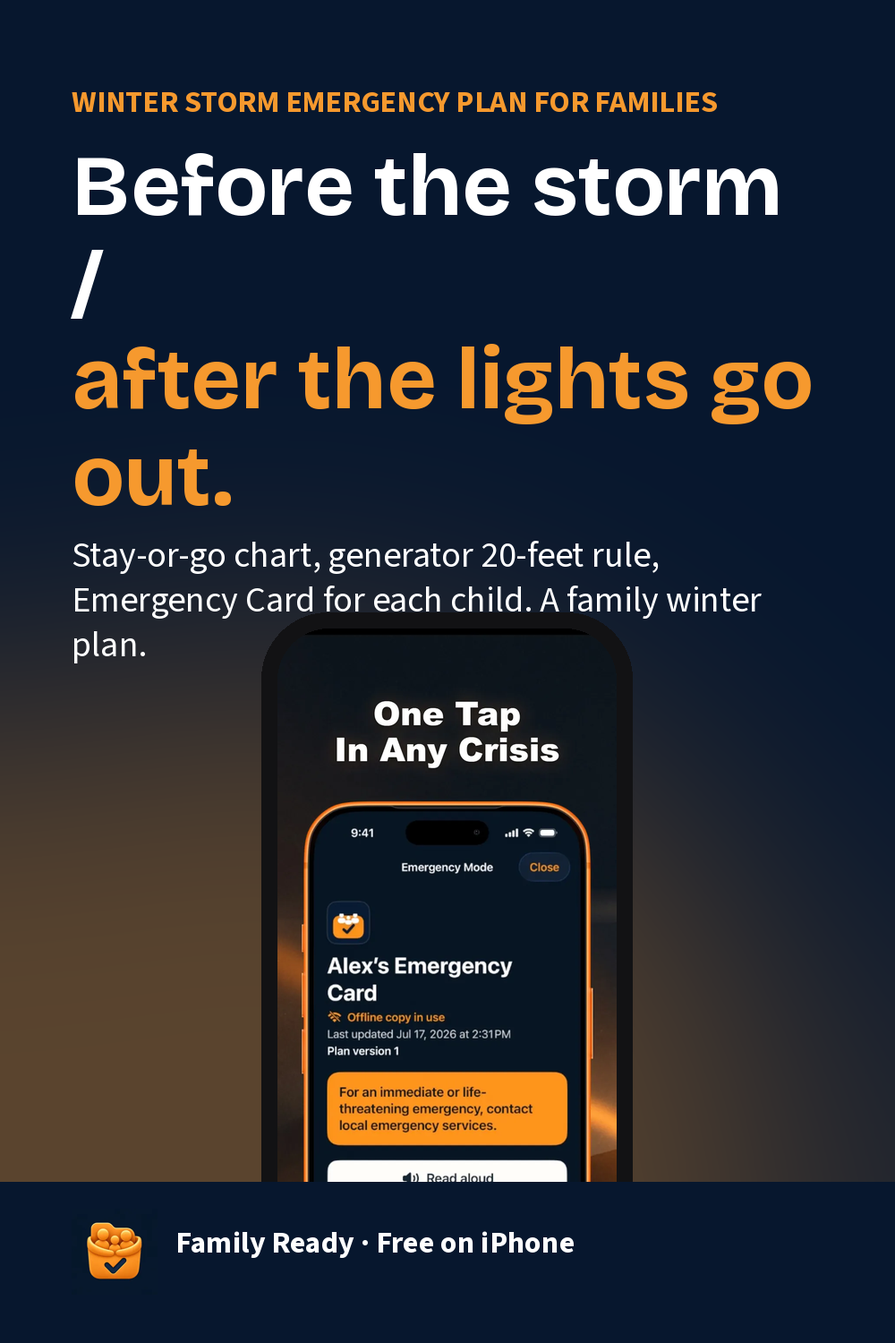
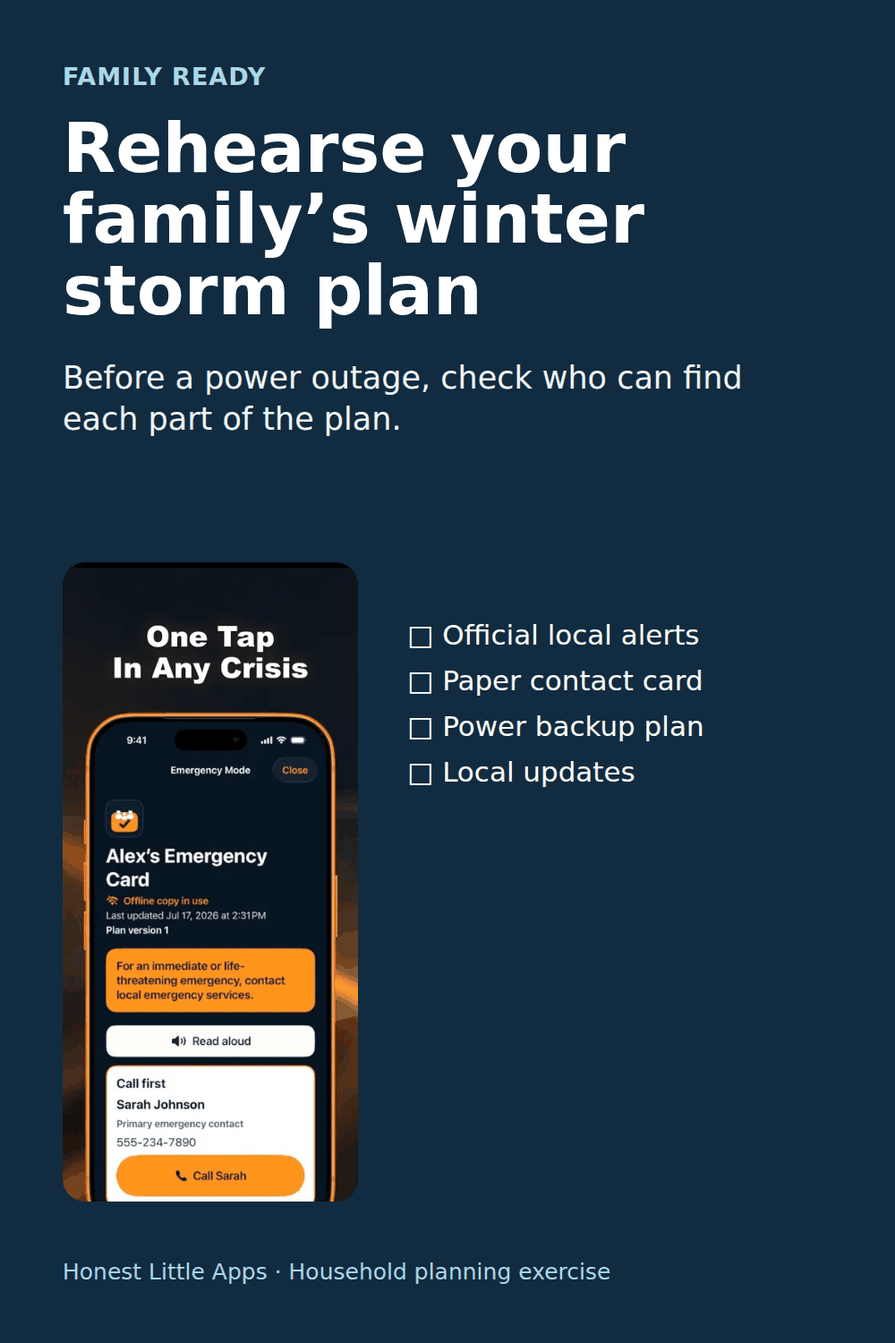
Replace winter safety verdicts with advance rehearsal; preserve repair drafts

diff --git a/src/family-ready/winter-storm-emergency-plan-for-families/index.html b/src/family-ready/winter-storm-emergency-plan-for-families/index.html
@@ -4,24 +4,24 @@
 <meta charset="utf-8">
 <meta name="viewport" content="width=device-width,initial-scale=1">
 <title>Winter Storm Emergency Plan for Families (2026-27 Season)</title>
-<meta name="description" content="Power out in a winter storm with kids at home: a stay-or-go decision chart, a drag-to-sort kit list and the free Emergency Card to fill before December.">
+<meta name="description" content="Rehearse four winter storm planning tasks with your household. Find local alerts, check a paper contact card and decide which supplies to review before an outage.">
 <link rel="canonical" href="https://udrwu9c0tjuedqy2.github.io/hla-home/family-ready/winter-storm-emergency-plan-for-families/">
 <meta name="robots" content="index,follow,max-image-preview:large">
 <meta property="og:type" content="article">
 <meta property="og:title" content="Winter Storm Emergency Plan for Families (2026-27 Season)">
-<meta property="og:description" content="Power out in a winter storm with kids at home: a stay-or-go decision chart, a drag-to-sort kit list and the free Emergency Card to fill before December.">
+<meta property="og:description" content="Rehearse four winter storm planning tasks with your household. Find local alerts, check a paper contact card and decide which supplies to review before an outage.">
 <meta property="og:url" content="https://udrwu9c0tjuedqy2.github.io/hla-home/family-ready/winter-storm-emergency-plan-for-families/">
 <meta property="og:image" content="https://udrwu9c0tjuedqy2.github.io/hla-home/family-ready/winter-storm-emergency-plan-for-families/og.png">
 <meta property="og:image:width" content="1200"><meta property="og:image:height" content="630">
 <meta property="og:site_name" content="Ready Home Family">
 <meta name="twitter:card" content="summary_large_image">
 <meta name="twitter:title" content="Winter Storm Emergency Plan for Families (2026-27 Season)">
-<meta name="twitter:description" content="Power out in a winter storm with kids at home: a stay-or-go decision chart, a drag-to-sort kit list and the free Emergency Card to fill before December.">
+<meta name="twitter:description" content="Rehearse four winter storm planning tasks with your household. Find local alerts, check a paper contact card and decide which supplies to review before an outage.">
 <meta name="twitter:image" content="https://udrwu9c0tjuedqy2.github.io/hla-home/family-ready/winter-storm-emergency-plan-for-families/og.png">
 <link rel="icon" href="/favicon.svg" type="image/svg+xml">
 <link rel="alternate" type="application/atom+xml" title="Ready Home Family" href="/feed.xml">
 <script type="application/ld+json">{"@context": "https://schema.org", "@type": "BreadcrumbList", "itemListElement": [{"@type": "ListItem", "position": 1, "name": "Ready Home Family", "item": "https://udrwu9c0tjuedqy2.github.io/hla-home/"}, {"@type": "ListItem", "position": 2, "name": "Family Ready: Emergency Plan", "item": "https://udrwu9c0tjuedqy2.github.io/hla-home/family-ready/"}, {"@type": "ListItem", "position": 3, "name": "Winter storm emergency plan for families", "item": "https://udrwu9c0tjuedqy2.github.io/hla-home/family-ready/winter-storm-emergency-plan-for-families/"}]}</script>
-<script type="application/ld+json">{"@context": "https://schema.org", "@type": "FAQPage", "mainEntity": [{"@type": "Question", "name": "When should a family leave the house in a winter storm?", "acceptedAnswer": {"@type": "Answer", "text": "When the house cannot be kept safely warm, when someone depends on a powered medical device and the backup is running out, or when officials tell you to. Roads during the storm are their own danger, so the decision is usually made early (before the worst of it) or late (after plows run), not in the middle. The chart below walks through it."}}, {"@type": "Question", "name": "Can we run the generator in the garage with the door open?", "acceptedAnswer": {"@type": "Answer", "text": "No. The CDC says a generator, charcoal grill or camp stove must be outside and at least 20 feet from any window, door or vent, never in a home, basement or garage (CDC winter safety release, February 2021). Carbon monoxide is the storm death that happens indoors."}}, {"@type": "Question", "name": "Can we heat the kitchen with the oven?", "acceptedAnswer": {"@type": "Answer", "text": "No. The same CDC guidance: never heat the house with a gas oven and never burn anything in a stove or fireplace that is not vented."}}, {"@type": "Question", "name": "What goes on the Emergency Card for a child?", "acceptedAnswer": {"@type": "Answer", "text": "Who to call first, allergies, current medications and important health information, in plain words a stranger could read. Family Ready saves it on the phone so it opens in Emergency Mode without internet once the phone is unlocked, and you can make one for each child, a parent or someone you care for, with their permission."}}, {"@type": "Question", "name": "Does the app call 911 for us?", "acceptedAnswer": {"@type": "Answer", "text": "No. Family Ready never calls or messages anyone automatically; in Emergency Mode you tap a contact to start the call yourself. In a life-threatening emergency, call your local emergency number first."}}, {"@type": "Question", "name": "What if the phone dies?", "acceptedAnswer": {"@type": "Answer", "text": "Then the app is a brick, which is why Family Ready lets you print a dated Emergency Snapshot PDF for free and why its own listing says to keep a printed copy. Tape one inside a kitchen cupboard and put one in the car."}}]}</script>
+<script type="application/ld+json">{"@context": "https://schema.org", "@type": "FAQPage", "mainEntity": [{"@type": "Question", "name": "Where do I find instructions during a storm?", "acceptedAnswer": {"@type": "Answer", "text": "Check your local emergency management authority and official weather alerts. For immediate danger, contact your local emergency number. This worksheet is for planning ahead."}}, {"@type": "Question", "name": "What if someone uses powered medical equipment?", "acceptedAnswer": {"@type": "Answer", "text": "Before an outage, ask the healthcare professional or equipment provider to help prepare a device-specific plan. Keep the instructions and contact numbers where the household can find them."}}, {"@type": "Question", "name": "Can the Emergency Card work offline?", "acceptedAnswer": {"@type": "Answer", "text": "Family Ready’s free Emergency Card opens in Emergency Mode without internet once the phone is unlocked. The free dated Emergency Snapshot PDF gives you a paper option."}}, {"@type": "Question", "name": "Does Family Ready call for help automatically?", "acceptedAnswer": {"@type": "Answer", "text": "No. Family Ready organizes the information you enter. You can tap a contact to start a call yourself."}}, {"@type": "Question", "name": "Which features require Family Ready Plus?", "acceptedAnswer": {"@type": "Answer", "text": "The Emergency Card, household plan, kit checklist and Emergency Snapshot PDF are free. Trusted-person invitations, household sync, guided reviews and additional printable packs are among the optional Plus features."}}]}</script>
 <link rel="preload" href="/assets/fonts/bricolage-grotesque-latin-700-normal.woff2" as="font" type="font/woff2" crossorigin>
 <meta name="apple-itunes-app" content="app-id=6792019825">
 <style>
@@ -60,6 +60,7 @@ details{border-top:1px solid var(--line);padding:10px 0}summary{cursor:pointer;f
 .hla-links{list-style:none;padding:0;margin:0;display:grid;gap:10px}.hla-links li{background:var(--card);border:1px solid var(--line);border-radius:12px;padding:12px 14px}.hla-links a{font-weight:600;text-decoration:none;color:var(--ink)}.hla-links span{display:block;color:var(--mute);font-size:.9rem}
 .hla-footer{margin-top:50px;padding:24px 0 40px;border-top:1px solid var(--line);color:var(--mute);font-size:.88rem}.hla-footer a{color:inherit}
 @media (prefers-reduced-motion:reduce){*{transition:none!important;animation:none!important}}
+fieldset{border:0;padding:0;margin:0 0 12px}legend{font-weight:bold;margin-bottom:10px}#rehearse label{display:flex;gap:.6rem;align-items:baseline;padding:.55rem 0}#rehearse input{flex:none;width:1.15rem;height:1.15rem}#rehearse button{cursor:pointer}#practice-result h3{margin-top:0}
 </style>
 </head>
 <body>
@@ -67,75 +68,49 @@ details{border-top:1px solid var(--line);padding:10px 0}summary{cursor:pointer;f
 <header class="top"><a href="/">Ready Home Family</a><a href="/about/">About</a></header>
 <main>
 <section class="hero">
-<p class="upd">Updated November 2026 · For the 2026–27 winter storm season · Safety facts from the CDC, linked</p>
-<h1>What to do when the power goes out<span class="l2">in a storm, with kids at home.</span></h1>
-<p class="sub">A stay-or-go decision chart, a kit list you can drag into your own order, and the one card every family should fill in before December.</p>
-<div class="badge-row"><a class="hla-badge" href="https://apps.apple.com/app/id6792019825?ct=home-winter-storm-emergency-pl&mt=8" rel="noopener" aria-label="Download on the App Store"><img src="https://toolbox.marketingtools.apple.com/api/v2/badges/download-on-the-app-store/black/en-us?size=250x83&releaseDate=1276560000" alt="Download on the App Store" width="150" height="50" loading="eager" decoding="async"></a><small>Family Ready · Free Emergency Card on iPhone</small></div>
-<p class="swipe">Swipe the table sideways →</p>
-<div class="tblwrap">
-<table>
-<thead><tr><th>Decision</th><th>Stay home</th><th>Go (relative, friend, warming centre)</th><th>Call emergency services</th></tr></thead>
-<tbody>
-<tr><td>House temperature</td><td>Holding above about 60°F / 16°C with layers and one safe heat source</td><td>Falling steadily and no safe heat source</td><td>Someone is confused, very drowsy or has stopped shivering (signs of hypothermia per CDC)</td></tr>
-<tr><td>Medical devices</td><td>None, or battery backup covers the outage</td><td>Backup will not last; a plugged-in relative can host</td><td>Device failing now and no backup</td></tr>
-<tr><td>Roads</td><td>Unplowed, white-out, or ice: stay unless the house is unsafe</td><td>Cleared and daylight, short trip, car kit packed</td><td>Never drive to the hospital in a white-out if you can call instead</td></tr>
-<tr><td>Carbon monoxide</td><td>Generator outside, 20+ feet from windows and doors; no gas oven for heat</td><td>Any CO alarm or dizziness, headache, nausea: get everyone outside, then go</td><td>Symptoms plus anyone unconscious</td></tr>
-</tbody>
-</table>
-</div>
-<p class="upd">Generator distance, oven and vehicle rules: <a href="https://archive.cdc.gov/www_cdc_gov/media/releases/2021/p0217-winter-safety-tips.html" rel="noopener">CDC winter safety release, 17 February 2021</a>. Hypothermia signs and "stay indoors in extreme cold": <a href="https://www.cdc.gov/winter-weather/prevention/index.html" rel="noopener">CDC, Preventing Hypothermia, reviewed August 2026</a>. This is general information, not medical advice.</p>
+<p class="upd">Household planning exercise</p>
+<h1>Build your family’s winter storm plan<span class="l2">before the power goes out.</span></h1>
+<p class="sub">Practice finding local alerts, a paper contact card and the right people to ask about backup power. Start with one task, then compare notes.</p>
+<p>If a storm is happening now, follow your local emergency authorities’ instructions. For immediate danger, contact your local emergency number.</p>
 </section>
-
-<h2 id="faq">Questions parents ask the night the lights go out</h2>
-<details><summary>When should a family leave the house in a winter storm?</summary><p>When the house cannot be kept safely warm, when someone depends on a powered medical device and the backup is running out, or when officials tell you to. Roads during the storm are their own danger, so the decision is usually made early (before the worst of it) or late (after plows run), not in the middle. The chart below walks through it.</p></details><details><summary>Can we run the generator in the garage with the door open?</summary><p>No. The CDC says a generator, charcoal grill or camp stove must be outside and at least 20 feet from any window, door or vent, never in a home, basement or garage (<a href="https://archive.cdc.gov/www_cdc_gov/media/releases/2021/p0217-winter-safety-tips.html" rel="noopener">CDC winter safety release, February 2021</a>). Carbon monoxide is the storm death that happens indoors.</p></details><details><summary>Can we heat the kitchen with the oven?</summary><p>No. The same CDC guidance: never heat the house with a gas oven and never burn anything in a stove or fireplace that is not vented.</p></details><details><summary>What goes on the Emergency Card for a child?</summary><p>Who to call first, allergies, current medications and important health information, in plain words a stranger could read. Family Ready saves it on the phone so it opens in Emergency Mode without internet once the phone is unlocked, and you can make one for each child, a parent or someone you care for, with their permission.</p></details><details><summary>Does the app call 911 for us?</summary><p>No. Family Ready never calls or messages anyone automatically; in Emergency Mode you tap a contact to start the call yourself. In a life-threatening emergency, call your local emergency number first.</p></details><details><summary>What if the phone dies?</summary><p>Then the app is a brick, which is why Family Ready lets you print a dated Emergency Snapshot PDF for free and why its own listing says to keep a printed copy. Tape one inside a kitchen cupboard and put one in the car.</p></details>
-
-<div class="flow" id="flow">
-<h2>Stay or go? Tap through</h2>
-<p>Four yes/no questions. The answer is a starting point for your judgement, not a replacement for it.</p>
-<div class="node" id="node"></div>
-<div class="yn" id="yn"></div>
-<div class="trail" id="trail"></div>
-<div class="rec" id="rec" hidden></div>
-<button class="reset" id="reset" type="button" hidden>Start again</button>
-<a class="cta" href="https://apps.apple.com/app/id6792019825?ct=home-winter-storm-emergency-pl&mt=8" rel="noopener">Start on your iPhone</a>
-</div>
+<section class="flow" id="flow"><h2>Rehearse four tasks</h2><p>Check each task after someone in your household can demonstrate it. The result lists what to practice next. No personal details are entered.</p>
+<form id="rehearse"><fieldset><legend>Which tasks have you tried?</legend>
+<label><input type="checkbox" value="alerts"> Find the official weather alerts and emergency instructions for your area.</label>
+<label><input type="checkbox" value="contacts"> Locate a paper contact card and agree who will keep it current.</label>
+<label><input type="checkbox" value="power"> Review household power needs. If someone uses powered medical equipment, locate their device-specific plan or identify whom to ask for one.</label>
+<label><input type="checkbox" value="updates"> Find the official sources for road conditions and local warming-centre updates.</label>
+</fieldset><button class="cta" type="submit">Show my next practice tasks</button></form>
+<div id="practice-result" class="rec" tabindex="-1" hidden><h3 id="result-title"></h3><ul id="next-tasks"></ul></div>
+<noscript>On paper, write down the unchecked tasks. Pick one person to follow up on each.</noscript></section>
 
 <h2 id="kit">Drag the kit into your family's order</h2>
 <p>Six things from the Ready.gov-style kit checklist that Family Ready ships with. Drag (or use the arrow keys) to put them in the order you would grab them. There is no single right order; the point is that you have thought about it before the lights go out.</p>
 <ol class="sort" id="sort"><li draggable="true" tabindex="0"><span class="grip" aria-hidden="true">⋮⋮</span>Water: one gallon per person per day, three days</li><li draggable="true" tabindex="0"><span class="grip" aria-hidden="true">⋮⋮</span>Flashlights and spare batteries (not candles)</li><li draggable="true" tabindex="0"><span class="grip" aria-hidden="true">⋮⋮</span>Battery or crank radio for weather alerts</li><li draggable="true" tabindex="0"><span class="grip" aria-hidden="true">⋮⋮</span>Medications and the printed Emergency Card</li><li draggable="true" tabindex="0"><span class="grip" aria-hidden="true">⋮⋮</span>Blankets, hats, mittens, dry socks for each child</li><li draggable="true" tabindex="0"><span class="grip" aria-hidden="true">⋮⋮</span>Phone power bank, charged before the storm</li></ol>
 <p class="sortnote" id="sortnote">Your order is kept in this browser only.</p>
 
-<h2 id="story">A Thursday in January</h2>
-<div class="story">
-<p>7:10 pm, ice storm, the power cuts mid-dinner. The kids think it is fun for about four minutes. The house is 68°F and will lose roughly a degree an hour; the forecast says restoration by morning, maybe.</p>
-<p>The chart says stay: no medical devices, roads are glass, the gas fireplace is vented. The kit is in the hall cupboard. Emergency Mode on the phone shows the Emergency Card for each child, with the paediatrician and grandma's number, and the printed snapshot is taped inside the cupboard door in case the phone goes. Everyone sleeps in the living room under three blankets each. The lights come back at 5 am. Nobody had to decide anything in the dark.</p>
-</div>
-
-<h2 id="screens">What the free parts look like</h2>
+<h2>Practice on an ordinary evening</h2><div class="story"><p>In this example, one parent can find the town’s alert page. Another can find the printed card but spots an outdated phone number. Their next task is concrete: update the number, print a fresh copy and tell the household where it is kept.</p></div>
+<h2>Sources to keep with the plan</h2><ul>
+<li><a href="https://www.weather.gov/safety/winter-during">US National Weather Service winter storm guidance</a></li>
+<li><a href="https://www.canada.ca/en/services/policing/emergencies/preparedness/get-prepared/hazards-emergencies/power-outages.html">Public Safety Canada household power outage preparation</a></li>
+<li><a href="https://tc.canada.ca/en/road-transportation/stay-safe-when-driving/winter-driving/planning-your-trip">Transport Canada winter travel and road-condition resources</a></li>
+<li><a href="https://www.fda.gov/media/80782/download">FDA power outage planning booklet for users of powered medical devices</a>. Complete the device-specific plan with a healthcare professional.</li></ul>
+<h2>What the free parts look like</h2>
 <div class="shots">
 <figure><img class="" src="/assets/family-ready/screen-1-390.webp" srcset="/assets/family-ready/screen-1-390.webp 390w, /assets/family-ready/screen-1-780.webp 780w" sizes="(max-width:480px) 70vw, 300px" width="390" height="844" alt="Family Ready home screen showing a saved Emergency Card for Alex" loading="lazy" decoding="async"><figcaption>A saved Emergency Card, ready offline.</figcaption></figure>
 <figure><img class="" src="/assets/family-ready/screen-3-390.webp" srcset="/assets/family-ready/screen-3-390.webp 390w, /assets/family-ready/screen-3-780.webp 780w" sizes="(max-width:480px) 70vw, 300px" width="390" height="844" alt="Family Ready Emergency Mode with large text, call-first contact and read-aloud" loading="lazy" decoding="async"><figcaption>Emergency Mode: one tap, large text, call the first contact yourself.</figcaption></figure>
 <figure><img class="" src="/assets/family-ready/screen-4-390.webp" srcset="/assets/family-ready/screen-4-390.webp 390w, /assets/family-ready/screen-4-780.webp 780w" sizes="(max-width:480px) 70vw, 300px" width="390" height="844" alt="Family Ready plan sections: Today, If I Am Unavailable, Later" loading="lazy" decoding="async"><figcaption>The household plan, section by section.</figcaption></figure>
 </div>
 
-<h2 id="how">Three things to do this week</h2>
-<ol class="steps">
-<li><strong>Fill one Emergency Card per child.</strong> Who to call first, allergies, medications, health notes. It is free, saved on the phone, and opens offline in Emergency Mode once the phone is unlocked.</li>
-<li><strong>Print the Emergency Snapshot.</strong> Free, dated PDF. Cupboard door and glovebox. The app's listing says it itself: no app helps if the phone is lost or out of battery.</li>
-<li><strong>Edit the kit checklist and set a review date.</strong> The checklist is based on Ready.gov and Get Prepared (Canada) guidance with optional sections for children, older adults, pets and rural homes. Choose a 3, 6 or 12-month review so it does not go stale.</li>
-</ol>
-
-<h2 id="not-for">Who should pick something else</h2>
-<ul>
-<li>If you want an app that alerts you to storms or calls for help, this is not it; Family Ready organizes information you enter and never contacts emergency services. Use your local alerts app alongside it.</li>
-<li>If you want remote family sync and printable packs for a babysitter or carer, those are part of Family Ready Plus, a subscription. The free tier is the card, Emergency Mode, the household plan, the kit checklist, encrypted backup and the snapshot PDF.</li>
-<li>If nobody in the household will keep a phone charged, make the paper version the plan and the app the backup.</li>
-</ul>
-
+<h2 id="faq">Questions about keeping a household plan</h2>
+<details><summary>Where do I find instructions during a storm?</summary><p>Check your local emergency management authority and official weather alerts. For immediate danger, contact your local emergency number. This worksheet is for planning ahead.</p></details>
+<details><summary>What if someone uses powered medical equipment?</summary><p>Before an outage, ask the healthcare professional or equipment provider to help prepare a device-specific plan. Keep the instructions and contact numbers where the household can find them.</p></details>
+<details><summary>Can the Emergency Card work offline?</summary><p>Family Ready’s free Emergency Card opens in Emergency Mode without internet once the phone is unlocked. The free dated Emergency Snapshot PDF gives you a paper option.</p></details>
+<details><summary>Does Family Ready call for help automatically?</summary><p>No. Family Ready organizes the information you enter. You can tap a contact to start a call yourself.</p></details>
+<details><summary>Which features require Family Ready Plus?</summary><p>The Emergency Card, household plan, kit checklist and Emergency Snapshot PDF are free. Trusted-person invitations, household sync, guided reviews and additional printable packs are among the optional Plus features.</p></details>
 <section class="closing">
 <h2>Fill the card before the first storm</h2>
 <p>Free Emergency Card, Emergency Mode and kit checklist. No account to start.</p>
-<a class="hla-badge" href="https://apps.apple.com/app/id6792019825?ct=home-winter-storm-emergency-pl&mt=8" rel="noopener" aria-label="Download on the App Store"><img src="https://toolbox.marketingtools.apple.com/api/v2/badges/download-on-the-app-store/black/en-us?size=250x83&releaseDate=1276560000" alt="Download on the App Store" width="150" height="50" loading="eager" decoding="async"></a>
+<a class="hla-badge" href="https://apps.apple.com/us/app/family-ready-emergency-plan/id6792019825" rel="noopener" aria-label="Download on the App Store"><img src="https://toolbox.marketingtools.apple.com/api/v2/badges/download-on-the-app-store/black/en-us?size=250x83&releaseDate=1276560000" alt="Download on the App Store" width="150" height="50" loading="eager" decoding="async"></a>
 <p class="upd">Not an emergency-response service · Keep a printed copy too</p>
 </section>
 
@@ -146,19 +121,18 @@ details{border-top:1px solid var(--line);padding:10px 0}summary{cursor:pointer;f
 </div>
 <script>
 (function(){
-var T={q0:['Does anyone in the house depend on a powered medical device (oxygen, CPAP you cannot skip, powered feeding)?','q1','q2'],
-q1:['Will the backup battery or supply outlast the expected outage?','q2','GO_MED'],
-q2:['Do you have one safe heat source: a vented fireplace, or a generator outside at least 20 feet from windows and doors?','q3','q4'],
-q3:['Are the roads currently unsafe (unplowed, ice, white-out)?','STAY','STAY_OPT'],
-q4:['Is the house still above about 60°F / 16°C and are roads unsafe right now?','STAY_WATCH','GO']};
-var R={STAY:['Stay home','Safe heat, kids layered, kit out, phone on low power. Sleep in one room. Re-check the chart every few hours.'],
-STAY_OPT:['Stay, with a go-bag by the door','Heat is safe and roads are passable: staying is simpler, but pack the car kit now so a later decision takes two minutes.'],
-STAY_WATCH:['Stay for now, and set a tripwire','No safe heat source means the house will keep cooling. Decide the temperature or the hour at which you leave, before you are too cold to decide well. Never use a gas oven or an unvented stove to heat.'],
-GO:['Go while you can','No safe heat and the house is cooling or the roads are clear: a relative, friend or warming centre beats a cold night. Take the printed Emergency Card and medications.'],
-GO_MED:['Go now, and call ahead','A medical device without backup is the one case where waiting is the risk. Call the person you are going to, and if the device is failing now, call your local emergency number.']};
-var node=document.getElementById('node'),yn=document.getElementById('yn'),trail=document.getElementById('trail'),rec=document.getElementById('rec'),reset=document.getElementById('reset'),path=[];
-function show(k){if(R[k]){node.textContent='';yn.innerHTML='';rec.innerHTML='<b>'+R[k][0]+'</b>'+R[k][1];rec.hidden=false;reset.hidden=false;return;}var n=T[k];node.textContent=n[0];yn.innerHTML='';[['Yes',n[1]],['No',n[2]]].forEach(function(a){var b=document.createElement('button');b.type='button';b.textContent=a[0];b.addEventListener('click',function(){path.push(a[0]);trail.textContent='Answers so far: '+path.join(' → ');show(a[1]);});yn.appendChild(b);});}
-reset.addEventListener('click',function(){path=[];trail.textContent='';rec.hidden=true;reset.hidden=true;show('q0');});show('q0');
+const form=document.getElementById('rehearse');
+const nextTasks={alerts:'Bookmark your official local weather and emergency alert sources.',contacts:'Review the contact card together and agree where a printed copy will live.',power:'List the household’s power-related questions. Arrange a device-specific review with the provider if applicable.',updates:'Bookmark your area’s official road conditions and community information channels.'};
+function showPractice(){
+ const pending=[...form.querySelectorAll('input:not(:checked)')],list=document.getElementById('next-tasks');
+ list.replaceChildren();
+ for(const box of pending){const item=document.createElement('li');item.textContent=nextTasks[box.value];list.append(item);}
+ document.getElementById('result-title').textContent=pending.length ? (4-pending.length)+' of 4 practiced. Next tasks' : 'All four tasks practiced. Agree on your next review date.';
+ const result=document.getElementById('practice-result');result.hidden=false;result.focus();
+}
+form.addEventListener('submit',function(e){e.preventDefault();showPractice();});
+form.addEventListener('input',function(){document.getElementById('practice-result').hidden=true;});
+
 var list=document.getElementById('sort'),key='hla-family-ready-kit-order';
 try{var order=JSON.parse(localStorage.getItem(key)||'null');if(order){var items=[].slice.call(list.children);order.forEach(function(t){var it=items.find(function(x){return x.textContent.trim()===t});if(it)list.appendChild(it);});}}catch(e){}
 function save(){try{localStorage.setItem(key,JSON.stringify([].map.call(list.children,function(x){return x.textContent.trim()})));}catch(e){}}

diff --git a/src/roommend/repair-request-builder/index.html b/src/roommend/repair-request-builder/index.html
@@ -2,7 +2,7 @@
 :root{--paper:#f5f3ec;--ink:#183e36;--green:#226550;--lime:#dbe9aa;--line:#c9d1c6}*{box-sizing:border-box}body{margin:0;color:var(--ink);background:var(--paper);font:17px/1.65 system-ui,sans-serif}header,main,footer{max-width:1120px;margin:auto;padding:24px}header{display:flex;justify-content:space-between;gap:24px;border-bottom:1px solid var(--line);font-size:12px;letter-spacing:.13em}a{color:inherit}h1,h2{font-family:Georgia,serif;font-weight:400;letter-spacing:-.035em;line-height:1.06}h1{font-size:clamp(52px,7.6vw,88px);margin:22px 0}h2{font-size:clamp(34px,4.7vw,52px)}.hero{display:grid;grid-template-columns:1.2fr 1fr;gap:50px;align-items:center;padding:55px 0}.eyebrow{font-size:12px;font-weight:800;letter-spacing:.15em}.ticket{background:#fff;padding:30px;border:1px solid var(--line);border-top:12px solid var(--green);box-shadow:12px 12px 0 #dce3d5;transform:rotate(2deg)}.ticket strong{display:block;font:38px/1.15 Georgia,serif}.ticket-row{padding:17px 0;border-bottom:1px dashed var(--line)}.ticket-row span{display:block;font-size:11px;letter-spacing:.14em;font-weight:700}.button,button{display:inline-block;background:var(--green);color:white;border:0;border-radius:6px;padding:14px 20px;min-height:48px;font:700 15px/1.4 system-ui,sans-serif;text-decoration:none;cursor:pointer}.secondary{background:#e4e9df;color:var(--ink)}.small{font-size:14px}.tool{padding:clamp(22px,4vw,44px);background:white;border:1px solid var(--line);border-radius:12px;margin:25px 0 60px}.form-grid{display:grid;grid-template-columns:1fr 1fr;gap:24px}.wide{grid-column:1/-1}label{display:block;font-size:15px;font-weight:700}input,textarea,select{width:100%;font:inherit;line-height:1.5;color:var(--ink);border:1px solid #758c7f;border-radius:5px;padding:12px;background:#fff;margin-top:7px}textarea{min-height:110px;resize:vertical}.hint{font-size:13px;color:#52685f;margin:5px 0 0}.actions{display:flex;gap:12px;flex-wrap:wrap;margin:24px 0}pre{white-space:pre-wrap;overflow-wrap:anywhere;font:16px/1.7 system-ui,sans-serif;background:#f3f6ec;padding:24px;border-left:5px solid var(--green)}.comparison{display:grid;grid-template-columns:1fr 1fr;gap:24px}.comparison article{padding:24px;border-top:3px solid var(--green);background:#eeeee4}.comparison h3{margin-top:0}.app{padding:clamp(24px,5vw,52px);background:var(--ink);color:white;border-radius:12px;margin:60px 0}.app p{max-width:760px}.app .button{background:var(--lime);color:var(--ink)}details{padding:18px 0;border-bottom:1px solid var(--line)}summary{font-weight:700;cursor:pointer}footer{border-top:1px solid var(--line);font-size:13px}:focus-visible{outline:3px solid #b27a31;outline-offset:4px}[hidden]{display:none!important}@media(max-width:650px){.hero,.form-grid,.comparison{grid-template-columns:1fr}.hero{padding:30px 0;gap:26px}.wide{grid-column:auto}.ticket{margin:0 10px 15px 0}main{padding:20px}.tool{padding:22px 16px}header{font-size:10px}}@media print{header,.hero,form,.actions,.comparison,.app,details,footer,.tool>p,.tool>h2,main>section:not(.tool),#message,#output button{display:none}body{background:white;color:black}.tool{border:0;margin:0;padding:0}pre{border:0;padding:0}}
 .app{display:grid;grid-template-columns:minmax(0,1fr) 220px;gap:30px;align-items:center}.app-icon{border-radius:15px}.app-preview{margin:0}.app-preview img{display:block;width:100%;height:auto;border-radius:14px}.app-preview figcaption{font-size:12px;line-height:1.4;margin-top:10px;opacity:.85}@media(max-width:650px){.app{grid-template-columns:1fr}.app-preview{width:min(230px,100%);margin:auto}}</style><style>#paper-field-sheet .sheet-download{display:inline-block;max-width:100%;padding:.7em 0;text-decoration:underline;font-weight:700}#paper-field-sheet summary{cursor:pointer;min-height:44px;line-height:1.5}#paper-field-sheet li{margin-bottom:.55em}#paper-field-sheet a:focus-visible,#paper-field-sheet summary:focus-visible{outline:3px solid currentColor;outline-offset:3px}</style></head><body><header><a href="/">HONEST LITTLE APPS / HOME</a><span>OBSERVE → DESCRIBE → REQUEST</span></header><main>
 <section class="hero"><div><p class="eyebrow">HOME REPAIR REQUEST BUILDER</p><h1>Give the repair<br>a useful starting point.</h1><p>“The cupboard is broken” leaves a lot to guess. Write down what you can actually see, where it happens and what you want to happen next.</p><a class="button" href="#builder">Build a repair brief ↘</a><p><a href="#paper-field-sheet">After the visit: print a handoff sheet</a></p><p class="small">No account · Nothing sent · No diagnosis</p></div><div class="ticket" role="img" aria-label="Illustrative repair note with location, observation and requested next step"><p class="eyebrow">EXAMPLE / NOT A LIVE REQUEST</p><strong>Kitchen cupboard</strong><div class="ticket-row"><span>WHERE</span>Beside the sink</div><div class="ticket-row"><span>OBSERVED</span>Door catches the drawer</div><div class="ticket-row"><span>NEXT STEP</span>Arrange a review</div><p class="small">Specific enough to start a conversation.</p></div></section>
-<section class="tool" id="builder"><p class="eyebrow">YOUR NOTES → AN EDITABLE BRIEF</p><h2>Describe what you know.</h2><p>Use room labels rather than an address. Leave out access codes and other private details. This tool organizes your words; it does not assess urgency or decide how to fix an issue.</p><form id="form"><div class="form-grid"><div><label>Location within the home<input id="place" maxlength="160" placeholder="Kitchen, cabinet beside the sink" required></label><p class="hint">Room and exact spot. No address needed.</p></div><div><label>Item or area<input id="item" maxlength="120" placeholder="Lower cupboard door" required></label></div><div class="wide"><label>What did you observe?<textarea id="observed" maxlength="900" placeholder="The door rubs against the adjacent drawer when opened." required></textarea></label><p class="hint">Describe what you see, hear or notice. Keep any suspected cause separate.</p></div><div><label>When or how often? (optional)<textarea id="when" maxlength="350" placeholder="First noticed this week; happens each time it opens."></textarea></label></div><div><label>Effect on use (optional)<textarea id="impact" maxlength="350" placeholder="It needs repositioning by hand before it closes."></textarea></label></div><div class="wide"><label>What next step are you requesting?<select id="request"><option value="review">Review the issue</option><option value="estimate">Assessment and estimate before agreement</option><option value="followup">Update on a previously reported issue</option></select></label></div></div><div class="actions"><button type="submit">Build my brief</button><button type="button" id="example" class="secondary">Load cupboard example</button><button type="button" id="clear" class="secondary">Clear all</button></div></form><p id="message" role="status"></p><div id="output" hidden><h3>Review before sharing</h3><pre id="draft"></pre><button id="copy">Copy this brief</button><p class="small">Copying does not send the request or book a visit. Choose the recipient yourself and check every detail.</p></div><noscript><p>JavaScript enables the builder. You can still use the six-part template below.</p></noscript></section>
+<section class="tool" id="builder"><p class="eyebrow">YOUR NOTES → AN EDITABLE BRIEF</p><h2>Describe what you know.</h2><p>Use room labels rather than an address. Leave out access codes and other private details. This tool organizes your words; it does not assess urgency or decide how to fix an issue.</p><form id="form"><div class="form-grid"><div><label>Location within the home<input id="place" maxlength="160" placeholder="Kitchen, cabinet beside the sink" required></label><p class="hint">Room and exact spot. No address needed.</p></div><div><label>Item or area<input id="item" maxlength="120" placeholder="Lower cupboard door" required></label></div><div class="wide"><label>What did you observe?<textarea id="observed" maxlength="900" placeholder="The door rubs against the adjacent drawer when opened." required></textarea></label><p class="hint">Describe what you see, hear or notice. Keep any suspected cause separate.</p></div><div><label>When or how often? (optional)<textarea id="when" maxlength="350" placeholder="First noticed this week; happens each time it opens."></textarea></label></div><div><label>Effect on use (optional)<textarea id="impact" maxlength="350" placeholder="It needs repositioning by hand before it closes."></textarea></label></div><div class="wide"><label>What next step are you requesting?<select id="request"><option value="review">Review the issue</option><option value="estimate">Assessment and estimate before agreement</option><option value="followup">Update on a previously reported issue</option></select></label></div></div><div class="actions"><button type="submit">Build my brief</button><button type="button" id="example" class="secondary" aria-expanded="false" aria-controls="example-note">View cupboard example</button><button type="button" id="clear" class="secondary">Clear all</button></div></form><aside id="example-note" hidden aria-labelledby="example-title"><h3 id="example-title">Example repair brief</h3><p><strong>Location</strong> Kitchen, cabinet beside the sink.</p><p><strong>Observation</strong> The lower cupboard door rubs against the drawer when opened. There is a scrape along its top edge.</p><p><strong>When and effect</strong> First noticed this week. The door now needs repositioning by hand before it will close.</p><p><strong>Requested next step</strong> Please review the issue and suggest the next step.</p></aside><p id="message" role="status"></p><div id="output" hidden><h3>Review before sharing</h3><pre id="draft"></pre><button id="copy">Copy this brief</button><p class="small">Copying does not send the request or book a visit. Choose the recipient yourself and check every detail.</p></div><noscript><p>JavaScript enables the builder. You can still use the six-part template below.</p></noscript></section>
 <section><p class="eyebrow">A BETTER FIRST MESSAGE</p><h2>Observation beats assumption.</h2><div class="comparison"><article><h3>A vague note</h3><p>“The kitchen cupboard is broken. The hinges must be faulty.”</p><p class="small">The location is broad and the cause is a guess.</p></article><article><h3>A more useful note</h3><p>“The lower cupboard beside the sink rubs the next drawer when opened. I first noticed it this week. Could you review it and let me know the next step?”</p><p class="small">The recipient can identify the item and understand the request.</p></article></div><h3>A repair request template you can use anywhere</h3><p><strong>Location → item → observation → timing → effect on use → requested next step.</strong> Optional details can be left out when you do not know them. A photo reference can help distinguish two similar items, but this tool does not accept or inspect photos.</p><p>For a routine request, keep the brief about one issue. If you have several unrelated jobs, make separate briefs so replies and next steps stay attached to the right item.</p></section>
 <section id="paper-field-sheet" aria-labelledby="sheet-heading">
 <h2 id="sheet-heading">Record what happened at the repair visit.</h2>
@@ -20,7 +20,10 @@ current='REPAIR REQUEST\n\nLocation: '+v.place+'\nItem: '+v.item+'\n\nWhat I obs
 $('draft').textContent=current;$('output').hidden=false;$('message').textContent='Draft ready. Review it before copying; nothing has been sent.';}
 $('form').addEventListener('submit',e=>{e.preventDefault();build();});
 for(const id of [...ids,'request'])$(id).addEventListener('input',()=>{if(current){current='';$('output').hidden=true;$('message').textContent='Details changed. Build the brief again to use the latest version.';}});
-$('example').addEventListener('click',()=>{const ex={place:'Kitchen, cabinet beside the sink',item:'Lower cupboard door',observed:'The door rubs against the adjacent drawer when opened. I can see a scrape along the top edge.',when:'First noticed this week; happens each time it opens.',impact:'The door needs repositioning by hand before it will close.'};for(const id of ids)$(id).value=ex[id];$('request').value='review';build();});
+$('example').addEventListener('click',()=>{
+  const panel=$('example-note'),open=panel.hidden;
+  panel.hidden=!open;$('example').setAttribute('aria-expanded',String(open));$('example').textContent=open?'Hide cupboard example':'View cupboard example';
+});
 $('clear').addEventListener('click',()=>{HTMLFormElement.prototype.reset.call($('form'));$('output').hidden=true;$('draft').textContent='';current='';$('message').textContent='All fields cleared.';});
 $('copy').addEventListener('click',async()=>{if(!current)return;try{await navigator.clipboard.writeText(current);$('message').textContent='Brief copied. Review the recipient and details before you send it.';}catch{$('message').textContent='Copy is unavailable. Select and copy the text in the preview.'}});
 })();</script></body></html>
